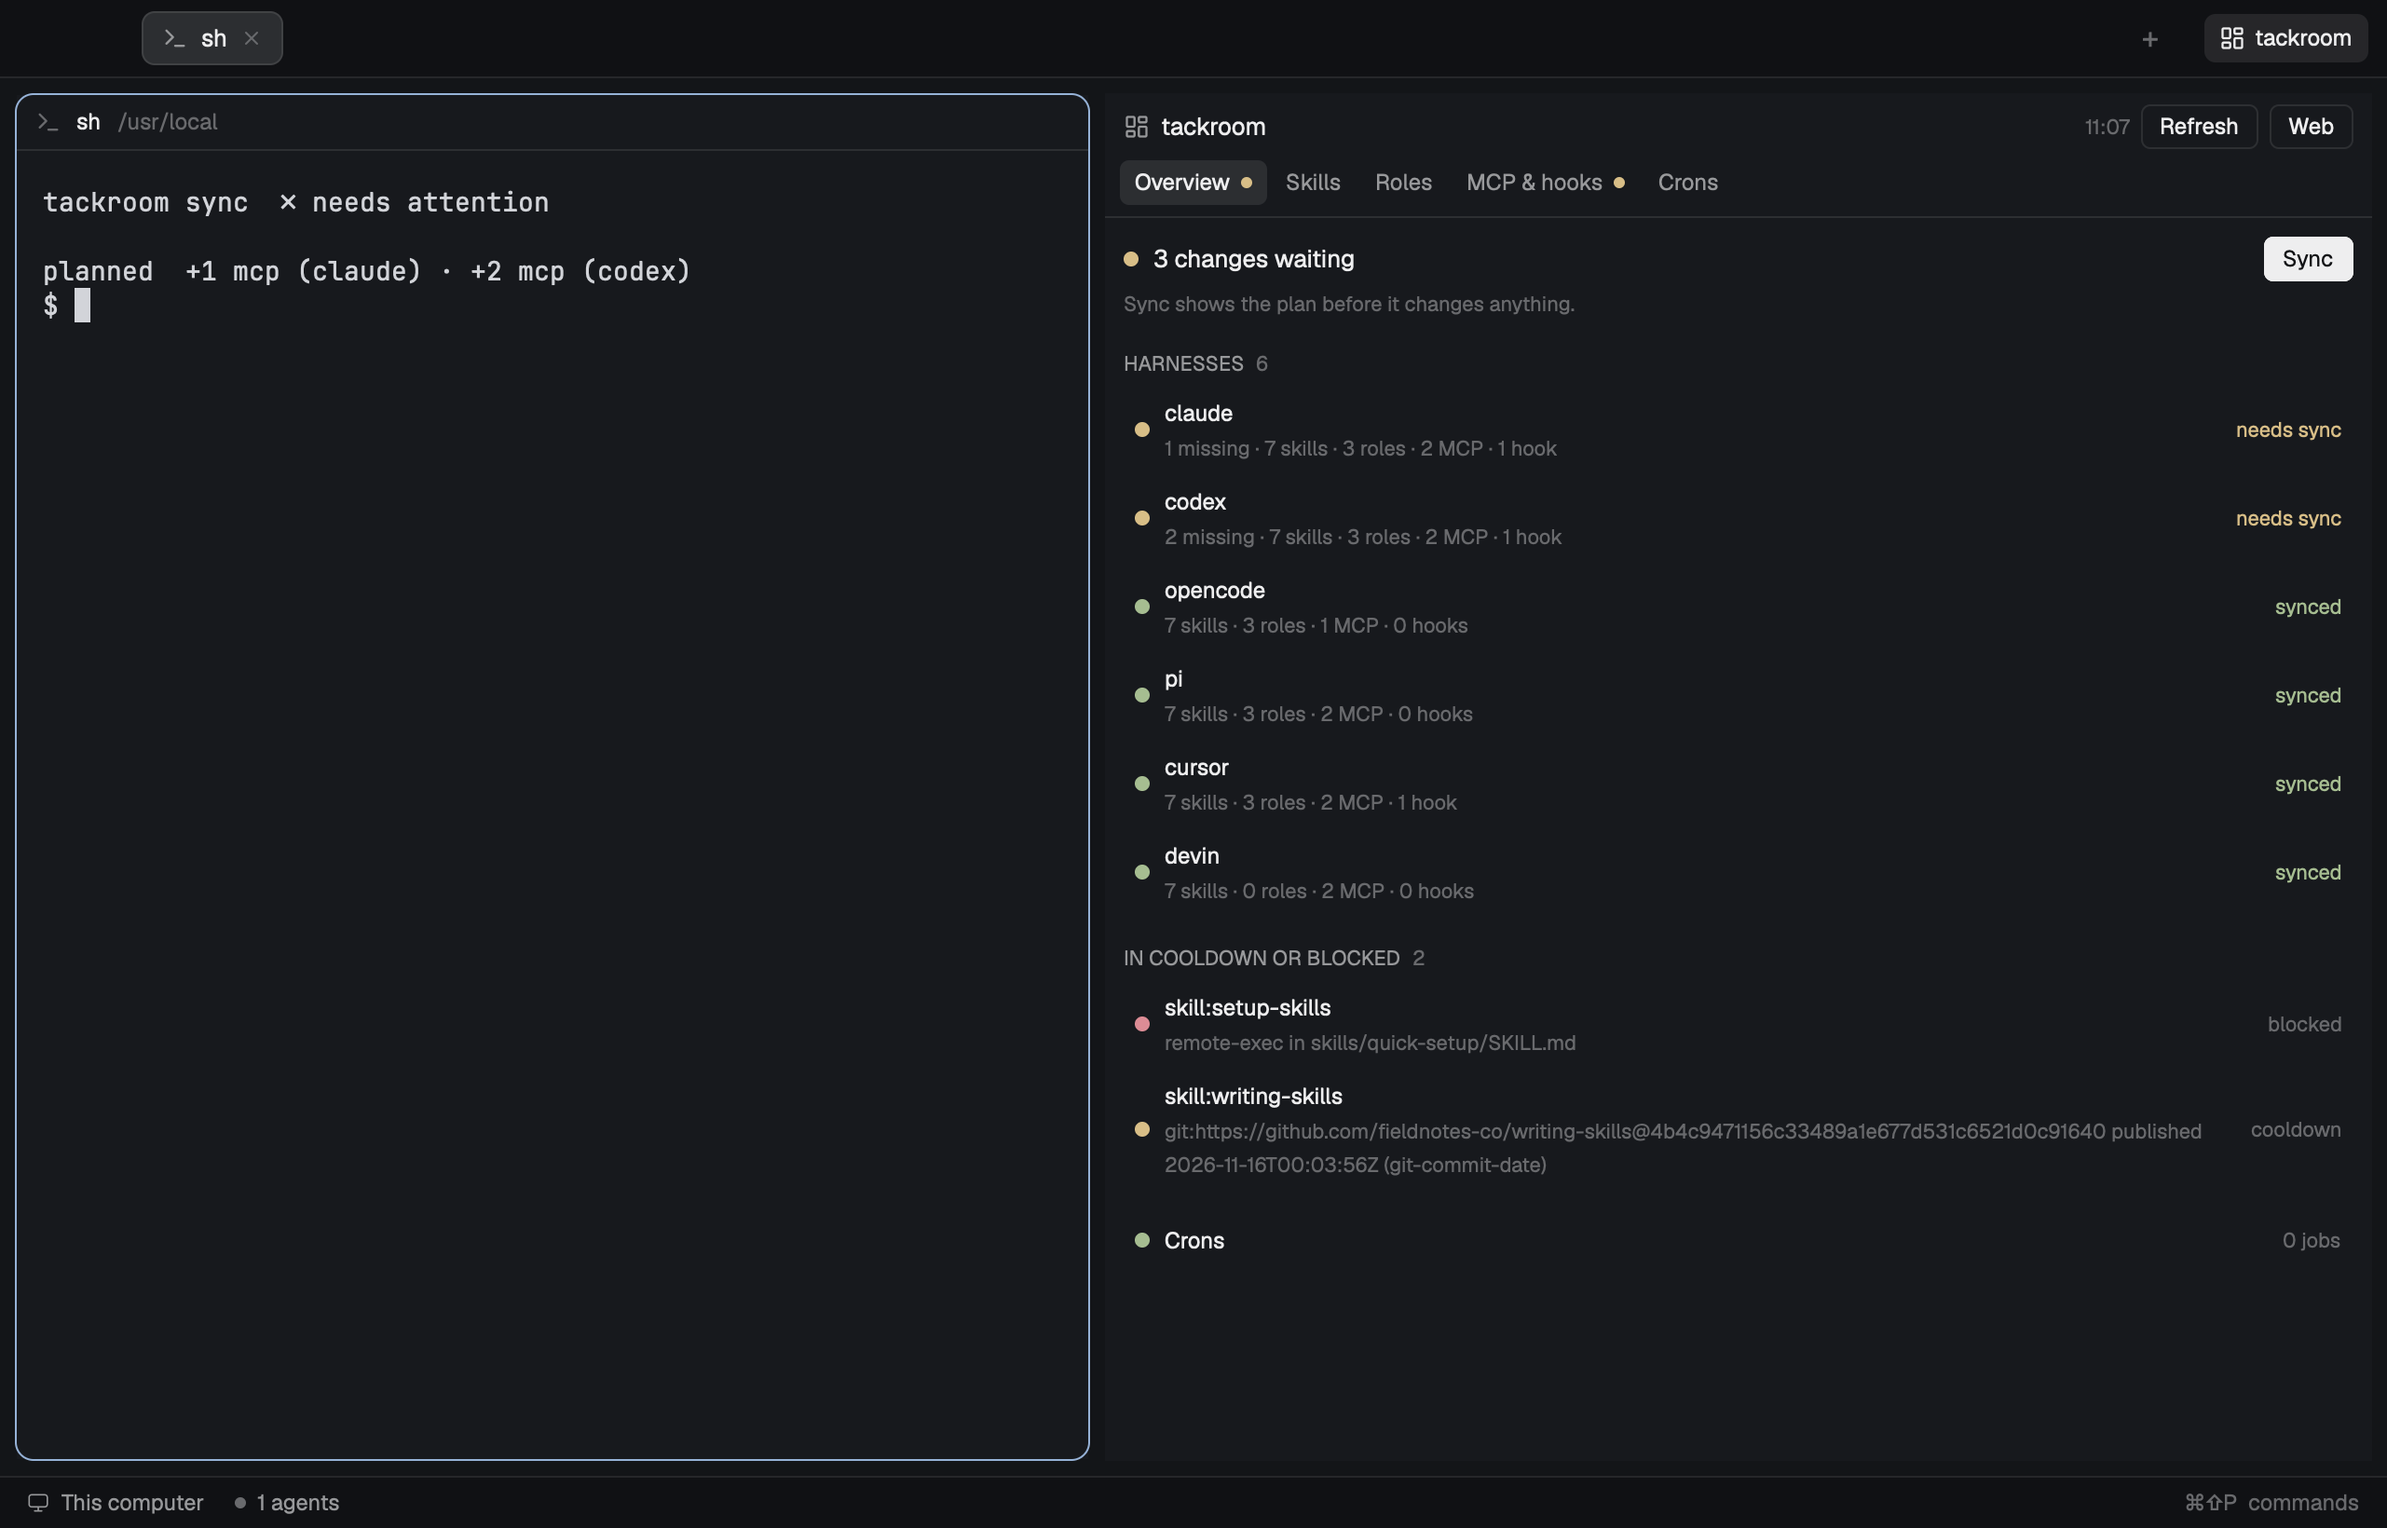
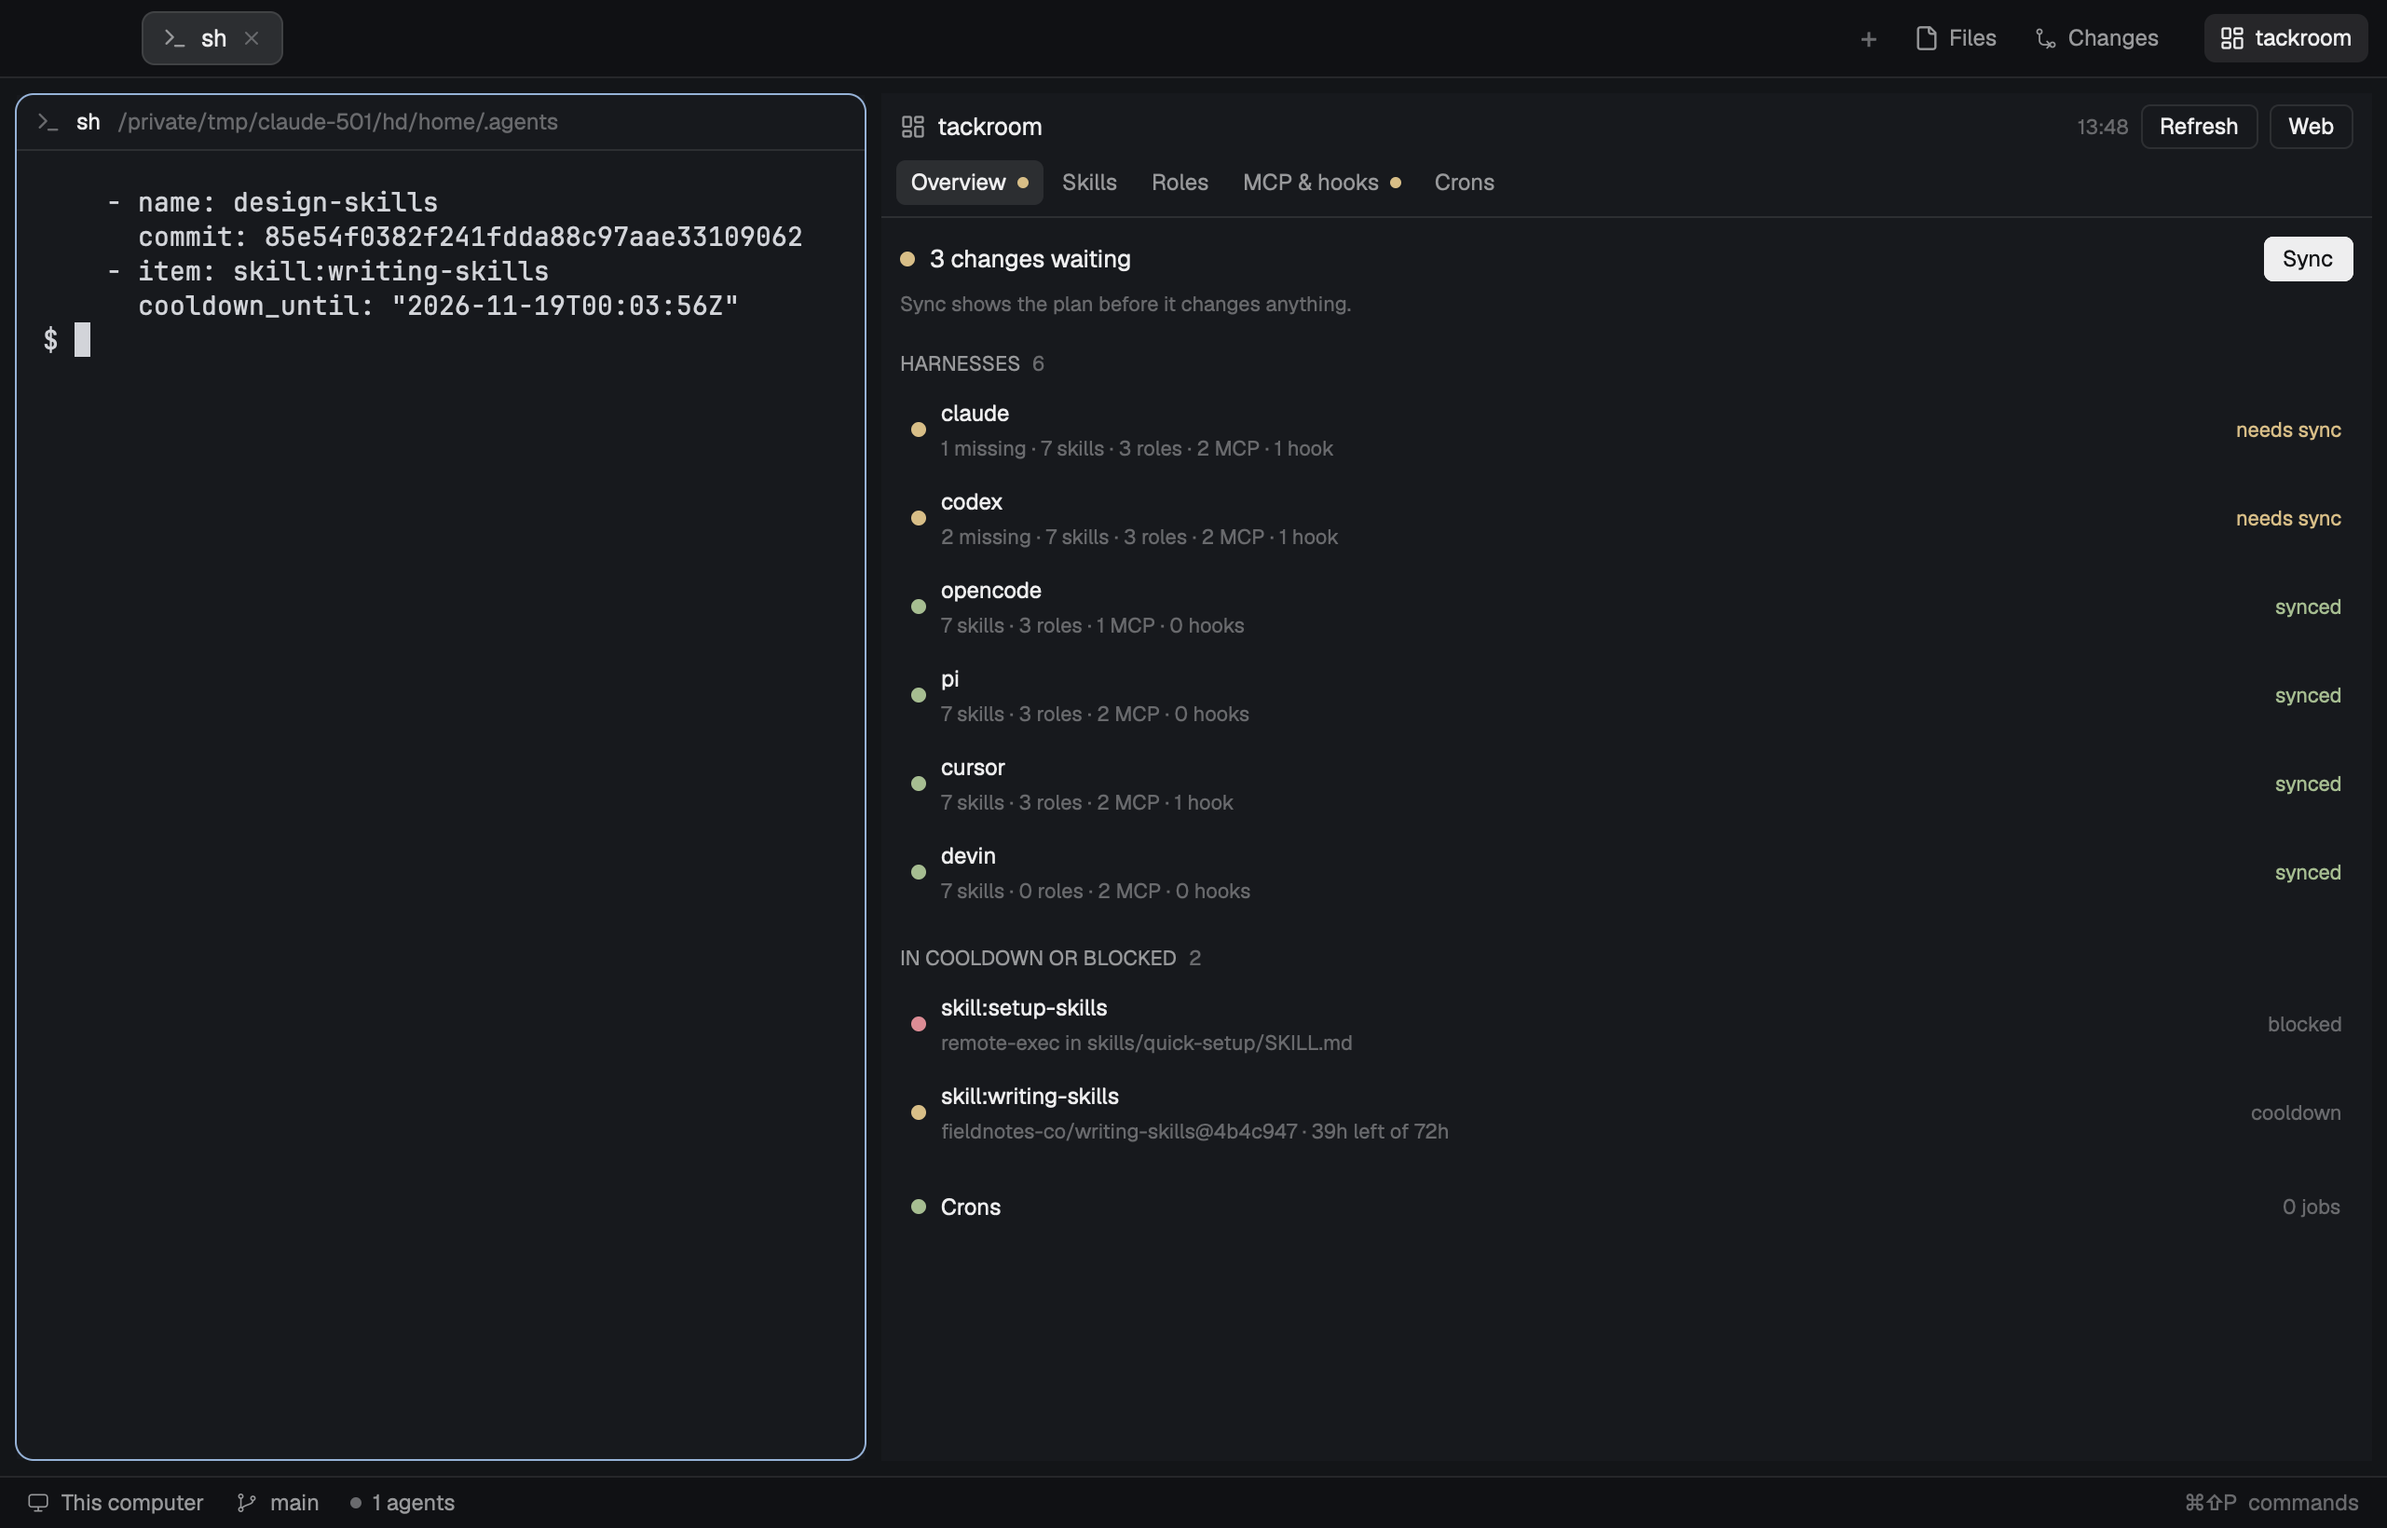
Herdr mod: show time left on cooldown rows, refresh preview

diff --git a/herdr/tackroom/mods/tackroom/main.js b/herdr/tackroom/mods/tackroom/main.js
@@ -48,6 +48,20 @@ const plural = (n, one, many = `${one}s`) => `${n} ${n === 1 ? one : many}`;
 // Items sync skips, in cooldown or blocked; a tackroom older than 3.0 names the list `held`.
 const skippedItems = (d) => d.skipped ?? d.held ?? [];
 
+// A cooldown row's short line: "owner/repo@4b4c947 · 37h left of 72h". The reason reads
+// "<git|npm|pypi>:<source>@<version> published <time> (...)"; with no usable `until`, the reason itself.
+function cooldownLine(h) {
+  const until = Date.parse(h.until);
+  const ref = /^(git|npm|pypi):(\S+)@(\S+)/.exec(h.reason ?? "");
+  if (!until || !ref) return h.reason;
+  const source = ref[1] === "git" ? (/([^/:]+\/[^/]+?)(?:\.git)?$/.exec(ref[2])?.[1] ?? ref[2]) : ref[2];
+  const version = ref[1] === "git" ? ref[3].slice(0, 7) : ref[3];
+  const published = Date.parse(/ published (\S+)/.exec(h.reason)?.[1]);
+  const left = Math.max(0, Math.ceil((until - Date.now()) / 36e5));
+  const of = published && until > published ? ` of ${Math.round((until - published) / 36e5)}h` : "";
+  return `${source}@${version} · ${left}h left${of}`;
+}
+
 function ago(iso) {
   const t = Date.parse(iso);
   if (!t) return "";
@@ -353,7 +367,7 @@ export default class Tackroom extends View {
         [this.dot(h.kind === "blocked" ? t.ansi1 : t.ansi3),
           v_flex().flex_1().min_w(0)
             .child(div().truncate().text_size(12).child(h.item))
-            .child(div().text_size(11).text_color(t.dim).child(h.reason)),
+            .child(div().text_size(11).text_color(t.dim).child(h.kind === "cooldown" ? cooldownLine(h) : h.reason)),
           div().flex_none().text_size(11).text_color(t.dim).child(h.kind)],
         () => v_flex().ml(22).mb(6).gap(3).text_size(11)
           .when(Boolean(h.until), (el) => el.child(this.field("Cooldown ends", h.until, t)))

diff --git a/herdr/tackroom/RECIPE.md b/herdr/tackroom/RECIPE.md
@@ -10,7 +10,7 @@ A side panel for [tackroom](https://github.com/yourconscience/tackroom), which k
 - **The tackroom panel** in the right column (368px, 280 to 900, hidden until opened), the third child of the `panel-body` stack after Files and Changes.
 - **Header**, 36px: the tackroom icon, "tackroom", the time the open tab's data was loaded (or "loading…"), then two buttons: Refresh, which reloads the open tab's data at once, and Web, which opens the same tab of the running `tackroom view`.
 - **Tab strip**: Overview, Skills, Roles, MCP & hooks and Crons, 12px, on `selected` for the open tab and `muted` for the rest. The strip wraps when the panel is too narrow for one line. A 6px dot after a label marks a tab that needs attention: `ansi1` for something failing, conflicting or unreadable, `ansi3` for something drifted, missing, in cooldown or out of sync. The dot shows from the first load, whichever tab is open.
-- **Overview**: a headline ("All synced", "4 changes waiting" or "2 harnesses out of sync"). With more than one host in `crons.hosts`, a "Machines" section comes next, one row per machine: its name, a health dot, the summary from `tackroom hosts` and, under it in `dim`, "Fix:" and the command, then the health in its tone (healthy, needs attention, failing). Then one row per harness: a state dot, its name, what it holds (what is missing or drifted first, then its skills, roles, MCP servers and hooks) and a state: synced, needs sync, a conflict count, config unreadable or not installed. A row opens into the exact names missing or drifted per surface, its conflicts and root file state. An "In cooldown or blocked" list follows, one row per item sync skips: the item, why and "blocked" or "cooldown"; it opens into when the cooldown ends and the exact command that overrides it. A line names sources a sync would fetch first. The last row is the Crons summary, and clicking it opens that tab. When something waits, a primary Sync button sits at the right of the headline and the line under it reads "Sync shows the plan before it changes anything." An open harness row ends with a Turn off button; harnesses turned off in the config follow the others with a `dim` dot, "turned off" and, open, a Turn on button.
+- **Overview**: a headline ("All synced", "4 changes waiting" or "2 harnesses out of sync"). With more than one host in `crons.hosts`, a "Machines" section comes next, one row per machine: its name, a health dot, the summary from `tackroom hosts` and, under it in `dim`, "Fix:" and the command, then the health in its tone (healthy, needs attention, failing). Then one row per harness: a state dot, its name, what it holds (what is missing or drifted first, then its skills, roles, MCP servers and hooks) and a state: synced, needs sync, a conflict count, config unreadable or not installed. A row opens into the exact names missing or drifted per surface, its conflicts and root file state. An "In cooldown or blocked" list follows, one row per item sync skips: the item, why and "blocked" or "cooldown". A blocked row gives the audit's reason; a cooldown row gives the source as `owner/repo@<7 hex>` (the package and version for npm and PyPI) and the time left, such as `37h left of 72h`, from `until`, or tackroom's own reason text when `until` is missing. A row opens into when the cooldown ends and the exact command that overrides it. A line names sources a sync would fetch first. The last row is the Crons summary, and clicking it opens that tab. When something waits, a primary Sync button sits at the right of the headline and the line under it reads "Sync shows the plan before it changes anything." An open harness row ends with a Turn off button; harnesses turned off in the config follow the others with a `dim` dot, "turned off" and, open, a Turn on button.
 - **Skills, Roles, MCP & hooks**: rows with a dot for the worst state among the harnesses, the name, a tag (a skill's origin, `local` or `owner/repo@commit`; a hook's event; "turned off" for a disabled server) and how many of the targeted harnesses have it in place (`2/3`). Rows that need attention come first, then the rest by name. A row opens into its description, origin and path (skills), command and targets (MCP servers and hooks), and its state in each harness in the web view's words: in place, drifted, missing, conflict, not targeted, turned off, not supported, not installed, config unreadable. For an MCP server or hook, each harness line ends with Remove (targeted) or Add (not targeted), except where it is not supported, not installed or unreadable, and the open row ends with Turn off or Turn on.
 - **Crons**: an Add cron button, one line per host with a count per health (failing, last run failed, no result, healthy, paused; a host whose probe failed shows "unreachable" and the error), a "Needs attention" list, then one section per host, sorted by health. A job row opens into its command, effect, log, schedule, last result and problems, and its buttons (Run now, Pause or Resume, Edit, Delete). A job tackroom does not own shows "No edit or delete." and the reason in `dim`.
 - **The dialog**, a 420px popup of this same mod (`props().form`): a title, then text inputs for the name (Add only), schedule, command, one input per argument with a remove button and "+ Add argument", and an optional effect, each under a label that carries an example and with no placeholder, because Herdr draws placeholders nearly as bright as typed text; Cancel and Add cron or Save. Delete shows the schedule and command and a red Delete button; Enter does not confirm it. Sync lists each change of the plan once, 12.5px, with the harnesses it touches under it in `dim`, then "REMOVES OR OVERWRITES" and those items in `ansi1`, then a `dim` line: "Sync applies this plan from the config it was made from. If the plan or the config changed since it loaded, it stops and the panel loads the new plan. Edits inside skill and role files are not checked." Its button is Sync, or a red Sync and remove when the plan removes or overwrites something; Enter does not confirm it. An error from tackroom shows in `ansi1` above the buttons and the dialog stays open. After a failed sync a `dim` line follows the error, "Nothing more is applied from this plan. Cancel, then press Sync for the current one.", and the Sync button is dimmed and does nothing. Esc closes it.
